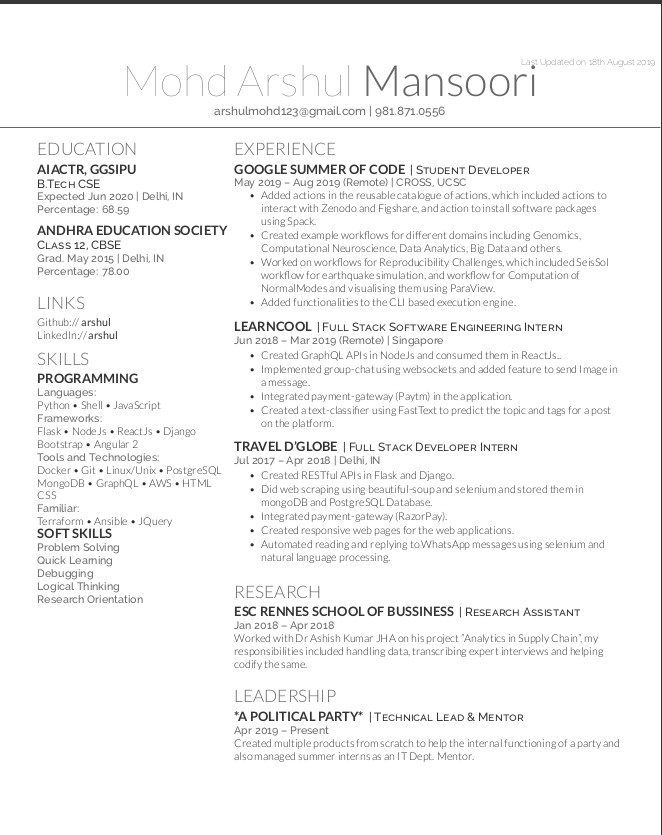
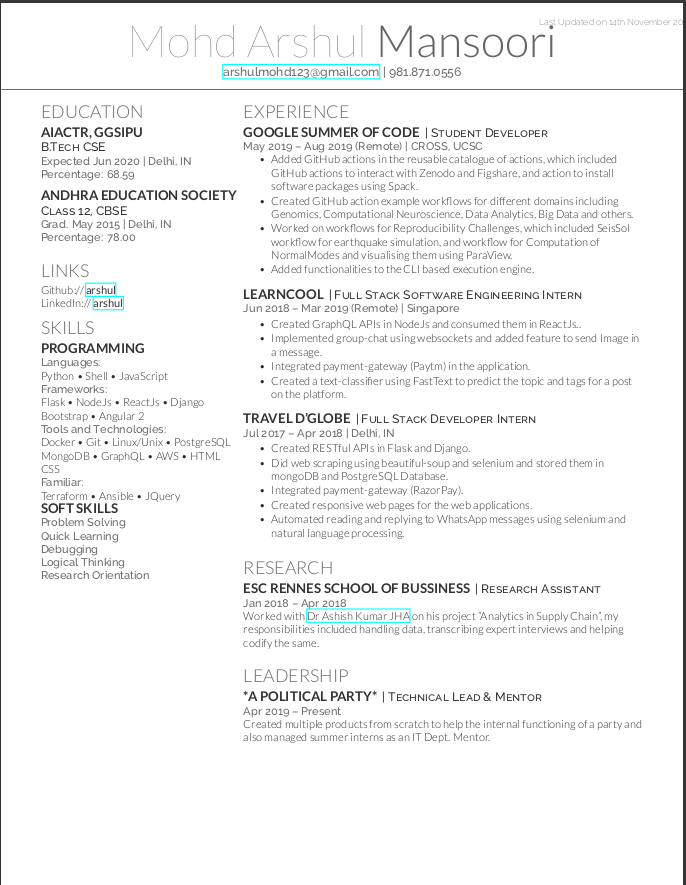
updated github action

diff --git a/deedy_resume-openfont.tex b/deedy_resume-openfont.tex
@@ -139,7 +139,7 @@ Terraform \textbullet{} Ansible \textbullet{} JQuery\\
 \descript{| Student Developer }
 \location{ May 2019 – Aug 2019 (Remote) | CROSS, UCSC}
 \vspace{\topsep} % Hacky fix for awkward extra vertical space
-\begin{tightemize}\item Added actions in the reusable catalogue of actions, which included actions to interact with Zenodo and Figshare, and action to install software packages using Spack.\item Created example workflows for different domains including Genomics, Computational Neuroscience, Data Analytics, Big Data and others.\item Worked on workflows for Reproducibility Challenges, which included SeisSol workflow for earthquake simulation, and workflow for Computation of NormalModes and visualising them using ParaView.\item Added functionalities to the CLI based execution engine.
+\begin{tightemize}\item Added GitHub actions in the reusable catalogue of actions, which included GitHub actions to interact with Zenodo and Figshare, and action to install software packages using Spack.\item Created GitHub action example workflows for different domains including Genomics, Computational Neuroscience, Data Analytics, Big Data and others.\item Worked on workflows for Reproducibility Challenges, which included SeisSol workflow for earthquake simulation, and workflow for Computation of NormalModes and visualising them using ParaView.\item Added functionalities to the CLI based execution engine.
 \end{tightemize}
 \sectionsep
 
